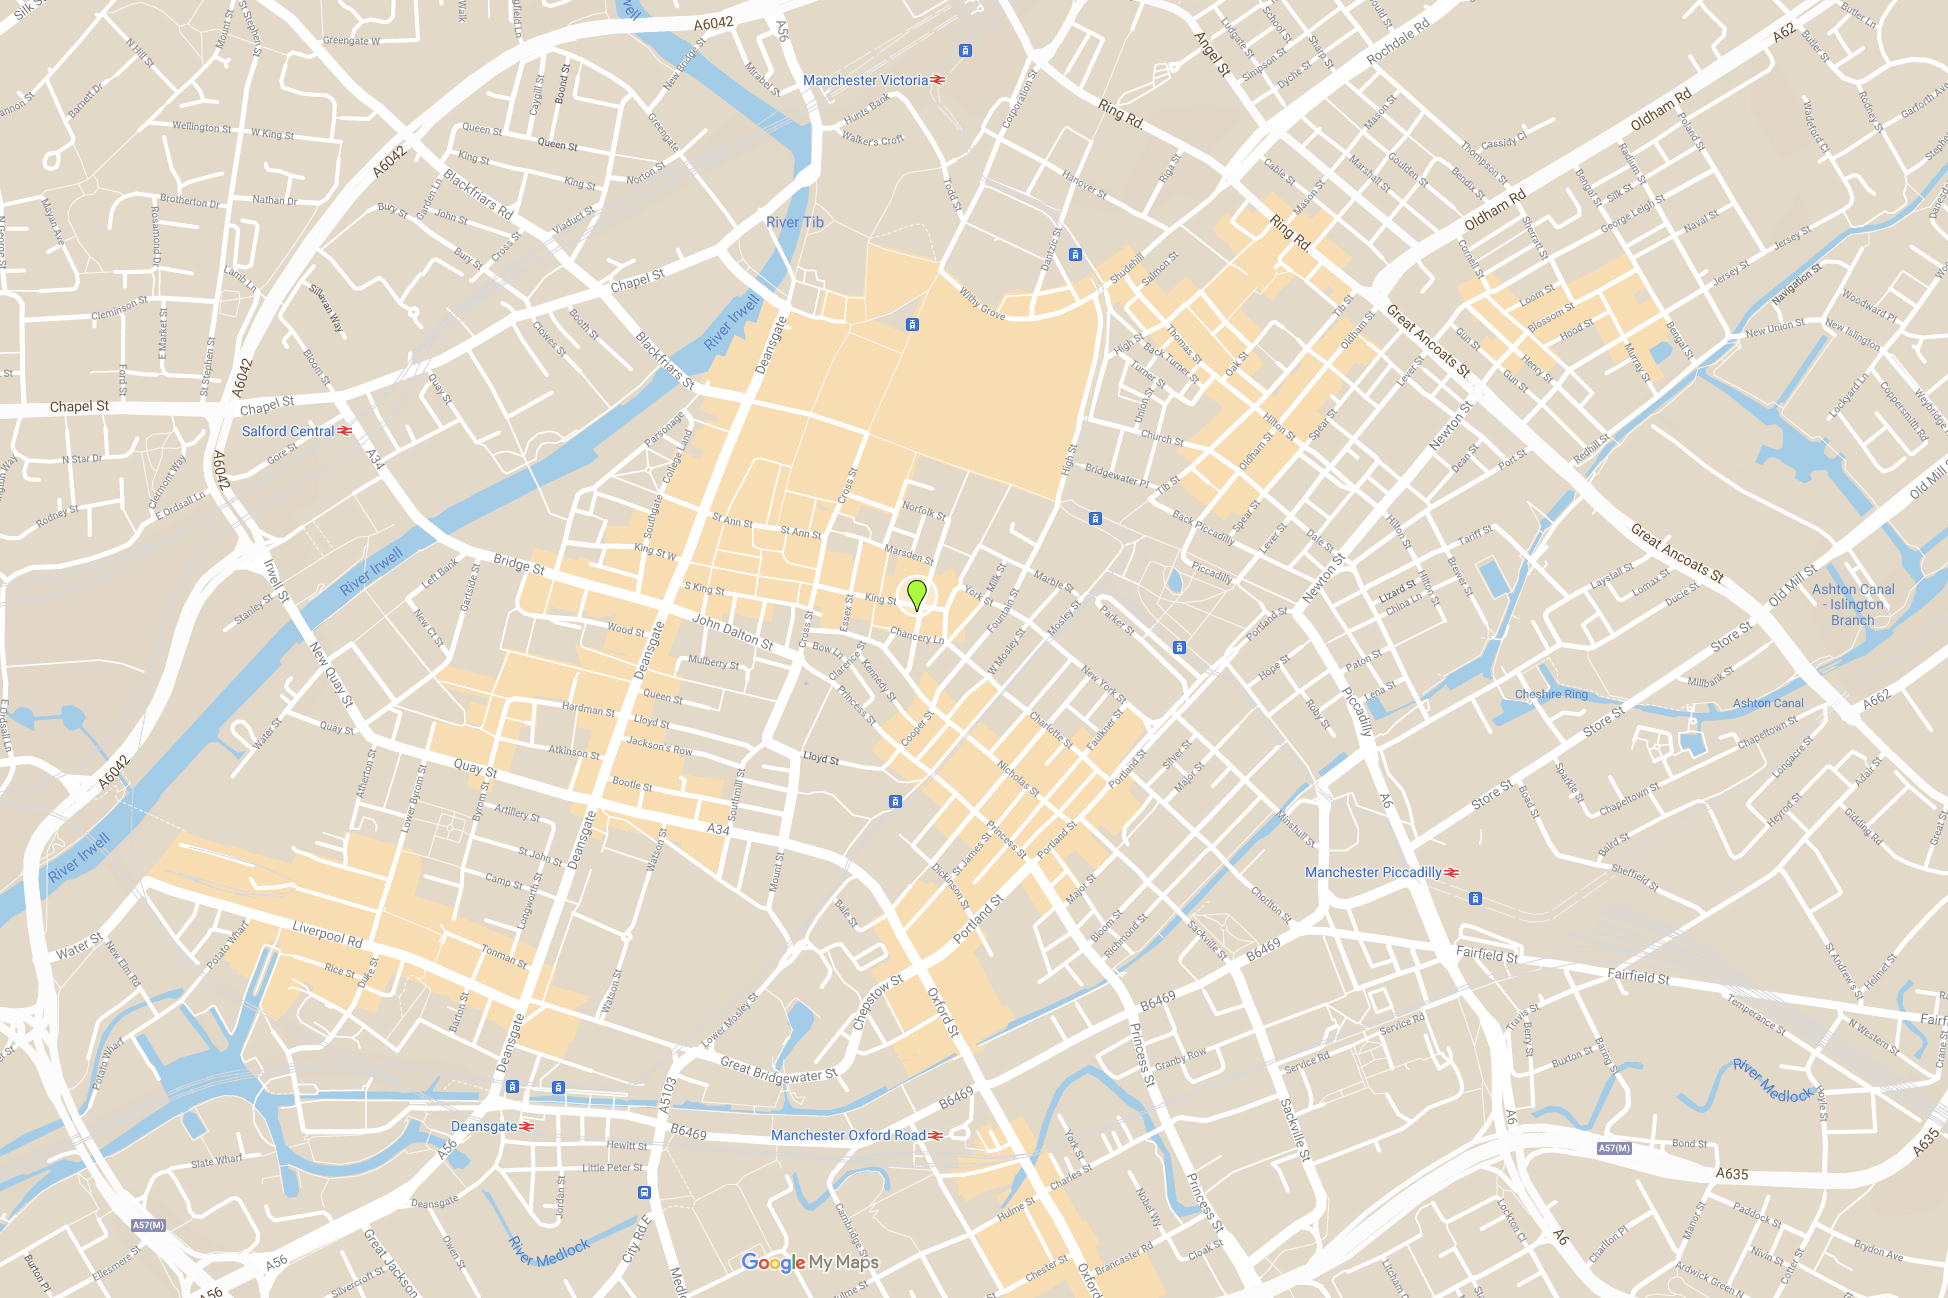
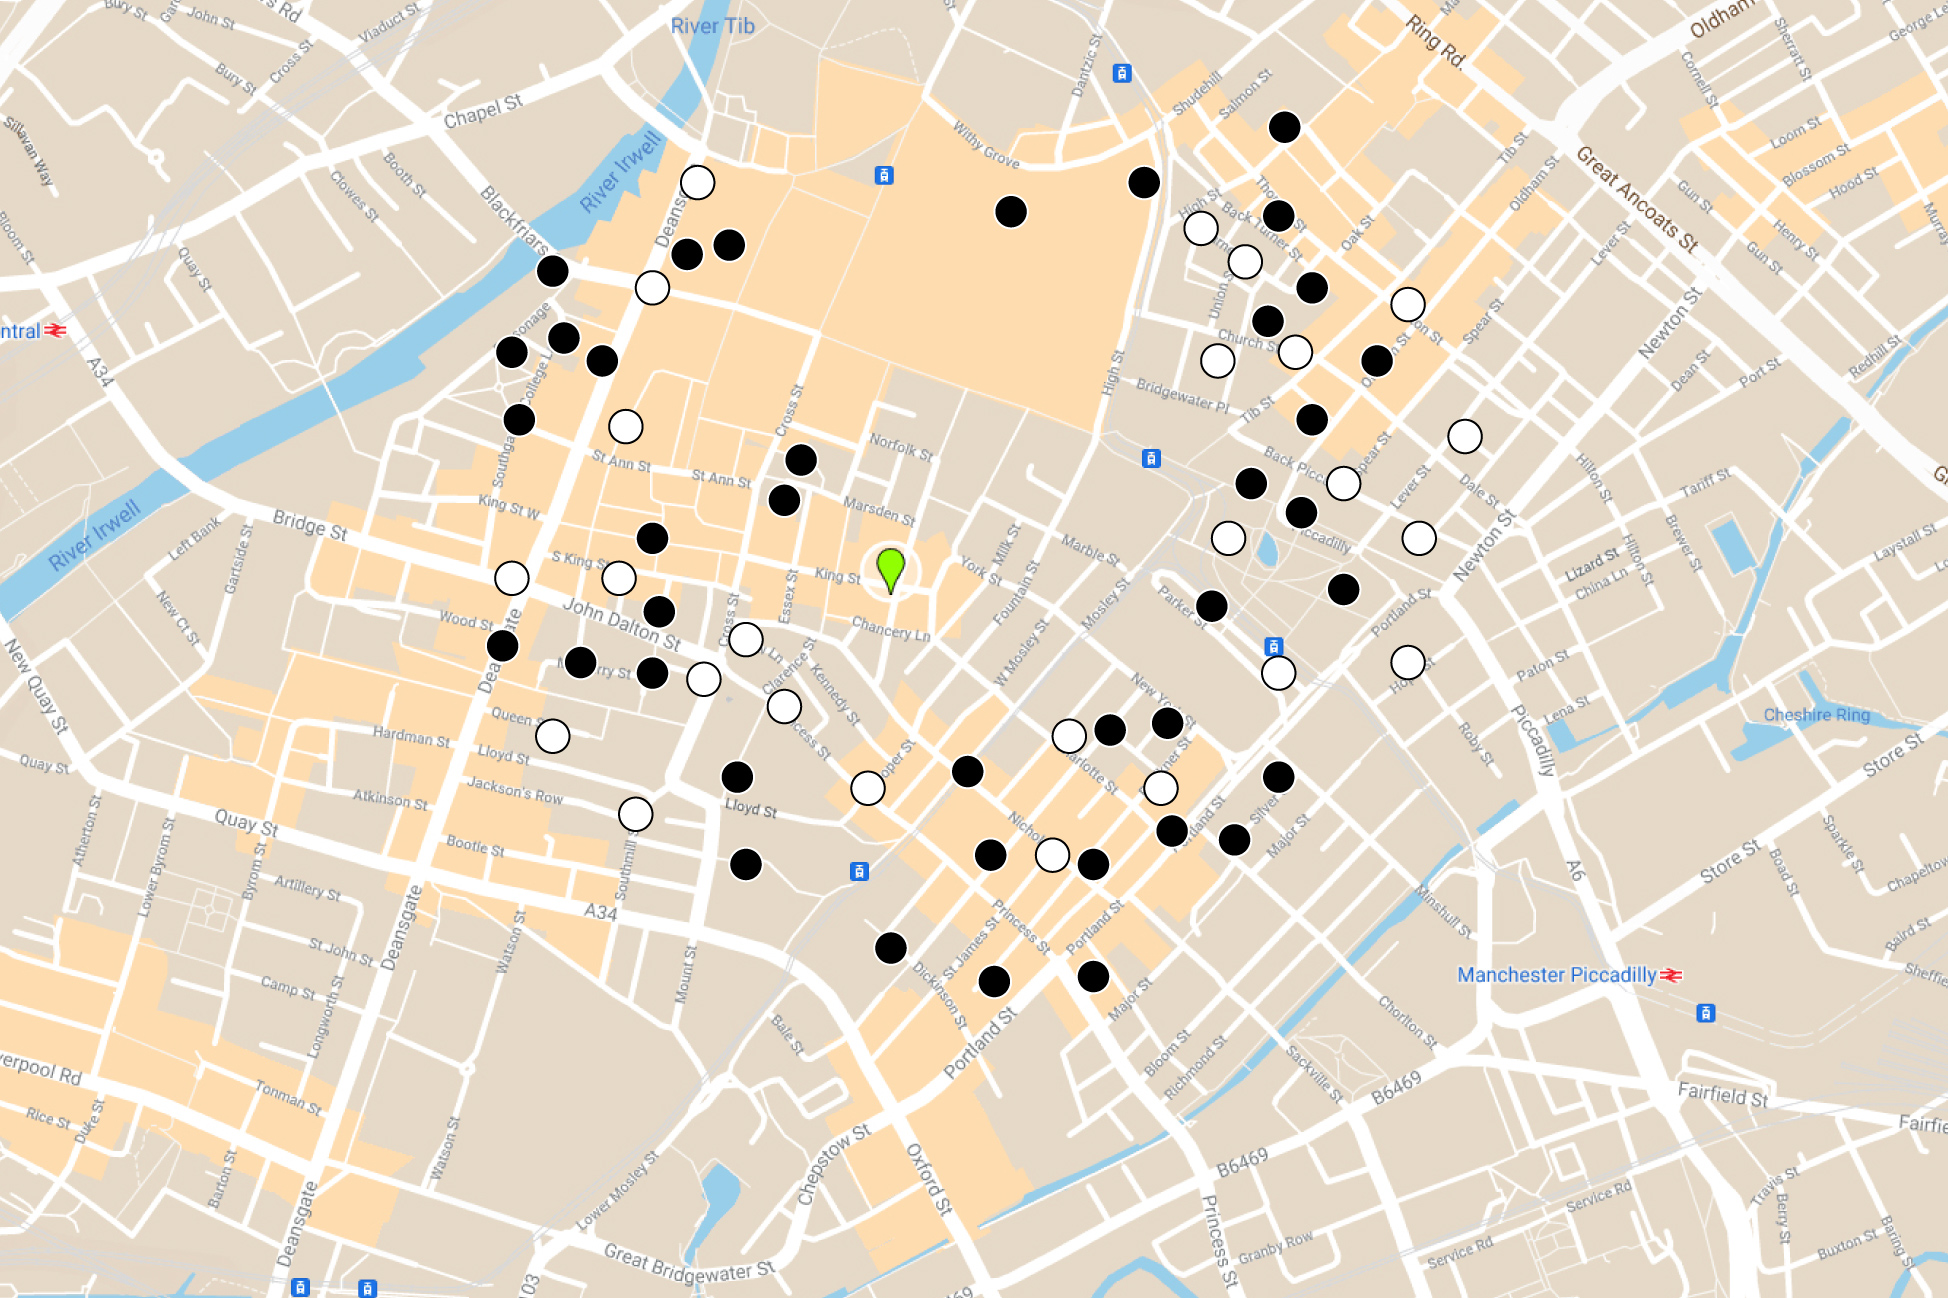
Added black/ white dots to map on v5/analyse-group-summary.html

diff --git a/app/views/v5/analyse-group-summary.html b/app/views/v5/analyse-group-summary.html
@@ -57,6 +57,9 @@
                 },
                 {
                     text: "58"
+                },
+                {
+                    html: "<span></span>"
                 }
                 ],
                 [
@@ -65,6 +68,9 @@
                 },
                 {
                     text: "44"
+                },
+                {
+                    html: "<span></span>"
                 }
                 ],
                 [
@@ -73,6 +79,10 @@
                 },
                 {
                     text: "36"
+                },
+                {
+                    html: "<img/>",
+                    src: "public/images/black-dot.png"
                 }
                 ],
                 [
@@ -81,6 +91,9 @@
                 },
                 {
                     text: "20"
+                },
+                {
+                    html: "<span></span>"
                 }
                 ],
                 [
@@ -89,6 +102,9 @@
                 },
                 {
                     text: "20"
+                },
+                {
+                    html: "<span></span>"
                 }
                 ],
                 [
@@ -97,6 +113,9 @@
                 },
                 {
                     text: "24"
+                },
+                {
+                    html: "<span>S</span>"
                 }
                 ],
                 [
@@ -105,6 +124,9 @@
                 },
                 {
                     text: "16"
+                },
+                {
+                    html: "<span></span>"
                 }
                 ],
                 [
@@ -121,10 +143,21 @@
                 },
                 {
                     text: "10"
+                },
+                {
+                    html: "<span></span>"
                 }
                 ]
             ]
             }) }}
+
+        <div class="govuk-button-group">
+            {{ govukButton({
+                text: "Add address to schedule",
+                classes: "govuk-button govuk-button--secondary",
+                href: "add-case-address-new"
+            }) }}
+        </div>
 
     </div>
     <div class="govuk-grid-column-three-quarters">

diff --git a/app/assets/sass/application.scss b/app/assets/sass/application.scss
@@ -148,3 +148,23 @@ $govuk-assets-path: "/govuk/assets/";
 .blueText {
 	color: #003078;
 }
+
+.blackCircle { 
+	width: 8px !important;
+	height: 8px !important;
+	background: #000000;
+	border: 1px solid white; 
+	-moz-border-radius: 70px; 
+	-webkit-border-radius: 70px; 
+	border-radius: 70px;
+}
+
+.whiteCircle { 
+	width: 16px;
+	height: 16px;
+	background: #ffffff;
+	border: 1px solid #000000; 
+	-moz-border-radius: 70px; 
+	-webkit-border-radius: 70px; 
+	border-radius: 70px;
+}
